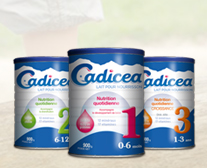
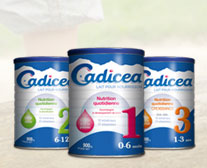
optimisation Google

diff --git a/html/slider.html b/html/slider.html
@@ -1,6 +1,6 @@
 <section class="row slider">
 	<div class="col-lg-12">
-		<img src="img/slider.png" class="img-responsive portfolio_frontpage slider__img" alt="slider" />
+		<img src="img/slider.jpg" class="img-responsive portfolio_frontpage slider__img" alt="slider" />
 		<div class="texte">
 			<p class="all-texte"><span class="top-texte">
 			Sauter, courir...</span><br/>
